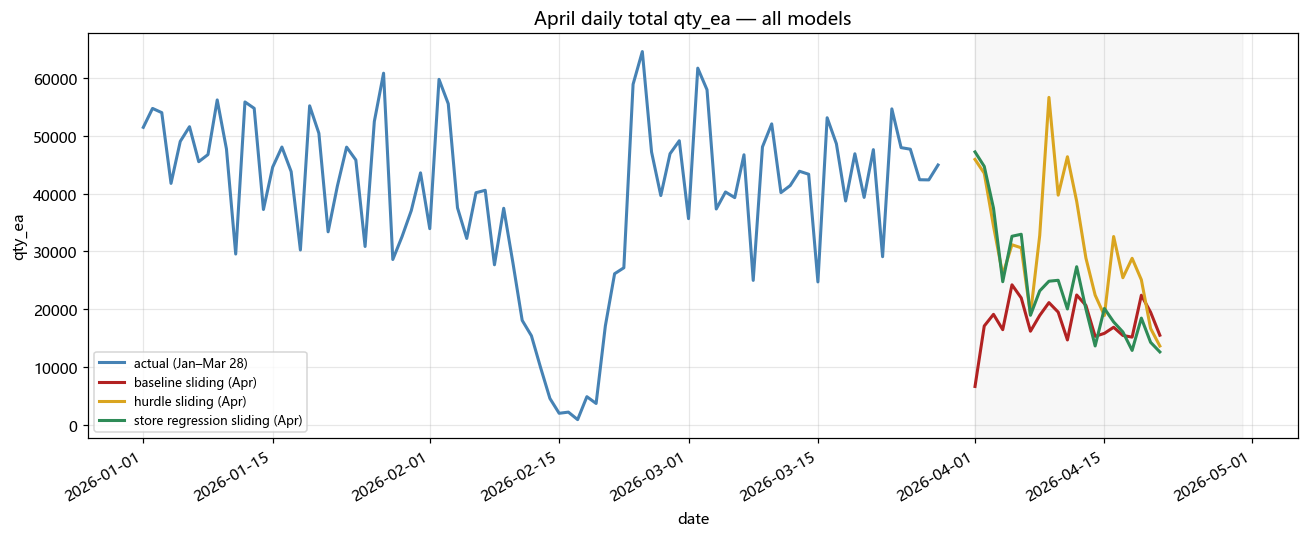
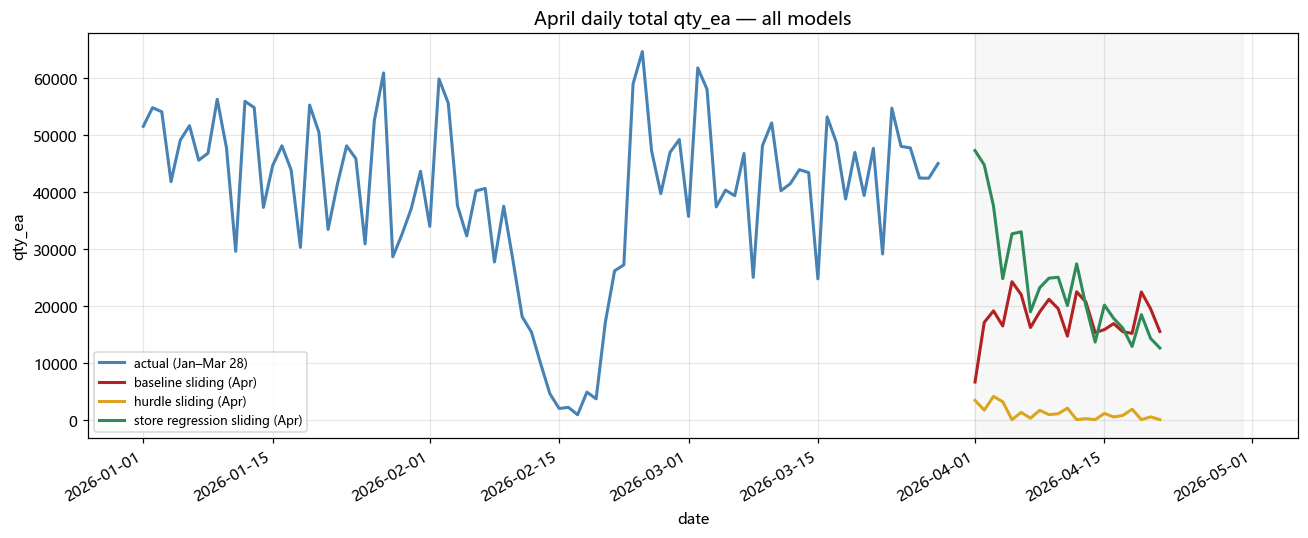
changed hurdle probability logic

diff --git a/src/04b_hurdle_model.py b/src/04b_hurdle_model.py
@@ -4,7 +4,7 @@ Grain: (warehouse, store, product_id) x day.
 
 - **Lookback:** 14 warehouse-open days (CNY closure skipped).
 - **Horizon:** next 7 calendar days; slide forward 7 days.
-- **Model:** classifier P(order) x Poisson size; trained on sliding samples.
+- **Model:** classifier P(order) + Poisson size μ; pred = μ if P(order) >= 0.5 else 0.
 - **April:** same weekly sliding forecast (predictions extend the lookback).
 """
 
@@ -40,7 +40,6 @@ from _metrics import (
     bias_ratio,
     evaluate_arrays,
     evaluate_arrays_positive_actual,
-    evaluate_decision_hurdle_qty,
     intermittent_hurdle_loss_report,
     smape_fracs,
     wmape,
@@ -144,7 +143,10 @@ def write_hurdle_daily_csv(
     ]
     base = daily_fc.drop(columns=extra, errors="ignore")
     out = base.merge(name_lookup, on=ID_COLS, how="left")
-    out.to_csv(path, index=False, encoding="utf-8-sig")
+    try:
+        out.to_csv(path, index=False, encoding="utf-8-sig")
+    except PermissionError:
+        log(f"WARNING: could not write {path.name} (file locked?); skipping")
 
 
 def tuple_recursive_priors(panel: pd.DataFrame) -> pd.DataFrame:
@@ -774,7 +776,8 @@ def predict_hurdle(
         p_prior = np.clip(pr * k, P_ORDER_MIN, pr)
         p = (1.0 - lam) * p_raw + lam * p_prior
         p = np.clip(p, 0.0, 1.0)
-    pred = np.clip(p * mu, 0, None)
+    order = (p >= ORDER_PROB_THRESHOLD).astype(np.float64)
+    pred = np.clip(order * mu, 0, None)
     return pred, p, mu
 
 
@@ -790,9 +793,8 @@ def tune_prior_hyperparams(
     """Pick (blend_lambda, prior_k) from March validation.
 
     Primary objective: monthly tuple totals bias_ratio nearest 1.
-    Secondary (tie-break / gentle pull): lower decision-rule SMAPE on daily rows
-    (``pred_qty`` if ``p_order >= ORDER_PROB_THRESHOLD`` else 0), which better reflects
-    intermittent demand than dense-panel expectation SMAPE.
+    Secondary (tie-break / gentle pull): lower hard-hurdle SMAPE on daily rows
+    (same rule as ``predict_hurdle``: μ if P(order) >= threshold else 0).
     """
     X = valid_open[feat_cols].fillna(0.0)
     pr = valid_open["pos_rate_train"].values
@@ -824,9 +826,7 @@ def tune_prior_hyperparams(
                 continue
             br = bias_ratio(merged["actual"].values, merged["pred"].values)
             br_err = abs(br - 1.0)
-            sm_dec = evaluate_decision_hurdle_qty(
-                y_daily, pred, p_ord, ORDER_PROB_THRESHOLD
-            )["smape"]
+            sm_dec = evaluate_arrays(y_daily, pred)["smape"]
             score = br_err + PRIOR_TUNE_DECISION_SMAPE_WEIGHT * sm_dec
             if score < best_score - 1e-9 or (
                 abs(score - best_score) <= 1e-9 and br_err < best_br_err
@@ -837,7 +837,7 @@ def tune_prior_hyperparams(
 
     log(
         f"  tuned P(order) blend: lambda={best_lam:.2f}  prior_k={best_k:.2f}  "
-        f"(score=monthly|bias_ratio-1|+{PRIOR_TUNE_DECISION_SMAPE_WEIGHT}*decision_SMAPE "
+        f"(score=monthly|bias_ratio-1|+{PRIOR_TUNE_DECISION_SMAPE_WEIGHT}*hard_SMAPE "
         f"→ {best_score:.4f}; monthly |bias_ratio-1| alone → {best_br_err:.4f})"
     )
     return best_lam, best_k
@@ -1148,18 +1148,15 @@ def main() -> int:
         reg_backend=reg_b,
     )
 
-    log("Validation (regression, daily):")
-    overall = evaluate_reg("overall_daily_dense_panel", y_valid.values, pred_val)
+    log("Validation (regression, daily, hard hurdle):")
+    overall = evaluate_reg(
+        f"overall_daily_hard_hurdle (p_order>={ORDER_PROB_THRESHOLD})",
+        y_valid.values,
+        pred_val,
+    )
 
     pos_m, n_pos = evaluate_arrays_positive_actual(y_valid.values, pred_val)
     evaluate_reg_masked(f"overall_daily_actual_gt0_only (n={n_pos:,})", pos_m)
-
-    hard_m = evaluate_decision_hurdle_qty(
-        y_valid.values, pred_val, p_val, ORDER_PROB_THRESHOLD
-    )
-    evaluate_reg_masked(
-        f"overall_daily_decision_sparse (p_order>={ORDER_PROB_THRESHOLD})", hard_m
-    )
 
     sf = smape_fracs(y_valid.values, pred_val)
     log(
@@ -1251,9 +1248,6 @@ def main() -> int:
         {"metric": f"daily_actual_gt0_{k}", "value": v} for k, v in pos_m.items()
     ]
     cal_rows += [
-        {"metric": f"daily_decision_sparse_{k}", "value": v} for k, v in hard_m.items()
-    ]
-    cal_rows += [
         {"metric": "daily_n_actual_gt0", "value": float(n_pos)},
         {"metric": "dense_frac_y0_pred_pos", "value": sf["frac_y0_pred_pos"]},
         {"metric": "dense_frac_both_zero", "value": sf["frac_both_zero"]},
@@ -1338,9 +1332,12 @@ def main() -> int:
         ID_COLS + ["customer_id", "product_name", "temperature_zone"]
     ].drop_duplicates(ID_COLS)
     daily_fc = daily_fc.merge(name_lookup, on=ID_COLS, how="left")
-    write_hurdle_daily_csv(daily_fc, HURDLE_APRIL_DAILY_PATTERN, name_lookup)
-    write_hurdle_daily_csv(daily_fc, HURDLE_APRIL_DAILY_STORE, name_lookup)
-    write_hurdle_daily_csv(daily_fc, HURDLE_APRIL_DAILY_NETWORK, name_lookup)
+    for path in (
+        HURDLE_APRIL_DAILY_NETWORK,
+        HURDLE_APRIL_DAILY_STORE,
+        HURDLE_APRIL_DAILY_PATTERN,
+    ):
+        write_hurdle_daily_csv(daily_fc, path, name_lookup)
     log(
         f"  Wrote April daily (sliding, all tiers identical): {HURDLE_DAILY_PATTERN_CSV}, "
         f"{HURDLE_DAILY_STORE_CSV}, {HURDLE_DAILY_NETWORK_CSV}"

diff --git a/reports/model_comparison.md b/reports/model_comparison.md
@@ -19,10 +19,10 @@ All models use **sliding windows**: 14 warehouse-open lookback days → predict 
 | Baseline bias ratio **before** CNY handling (documented) | -18.70% |
 | Baseline bias ratio **after** CNY handling (current run) | -86.70% |
 | Baseline daily MAE | 30.2143 |
-| Hurdle daily MAE | 1.2439 |
+| Hurdle daily MAE | 1.0541 |
 | Store regression daily MAE | 1.1291 |
 | Baseline March monthly WMAPE | 0.8686 |
-| Hurdle March monthly WMAPE | 0.7591 |
+| Hurdle March monthly WMAPE | 0.9840 |
 | Store regression March monthly WMAPE | 0.8955 |
 
 ## April totals (store regression and hurdle rolled up to warehouse–customer–product)
@@ -30,7 +30,7 @@ All models use **sliding windows**: 14 warehouse-open lookback days → predict 
 | Model | Total predicted qty_ea |
 |-------|------------------------:|
 | Baseline | 374,726 |
-| Hurdle (rolled up) | 657,334 |
+| Hurdle (rolled up) | 24,106 |
 | Store regression (rolled up) | 504,839 |
 
 ## Detail files

diff --git a/README.md b/README.md
@@ -258,7 +258,7 @@ All three models call the same CNY utilities so holiday shutdowns do not look li
 | **Classifier** | `1{qty_ea > 0}` on each horizon day | `HistGradientBoostingClassifier` |
 | **Size regressor** | `qty_ea` where actual > 0 | `HistGradientBoostingRegressor`, Poisson loss |
 
-**Combined prediction:** `pred = P(order) × μ` with optional **prior blend** on `P(order)` tuned on March sliding validation (`tuple_recursive_priors`: Jan–Feb order-day rate per tuple).
+**Combined prediction:** `pred = μ` if `P(order) >= 0.5`, else `0` (hard hurdle); optional **prior blend** on `P(order)` tuned on March sliding validation (`tuple_recursive_priors`: Jan–Feb order-day rate per tuple).
 
 #### Train / validate / forecast
 

diff --git a/docs/modeling_glossary.md b/docs/modeling_glossary.md
@@ -113,7 +113,7 @@ All metrics compare **actual** `qty_ea` to **predicted** `qty_ea`. Lower is usua
 
 ### 2. Hurdle — classifier × size on sliding rows
 
-- **P(order)** from a classifier; **μ** from a Poisson regressor on positive training rows; **pred = P × μ**.
+- **P(order)** from a classifier; **μ** from a Poisson regressor on positive training rows; **pred = μ** if `P(order) >= 0.5`, else **0** (hard hurdle).
 - Same sliding April chaining as baseline.
 - **Grain:** warehouse × store × product.
 
